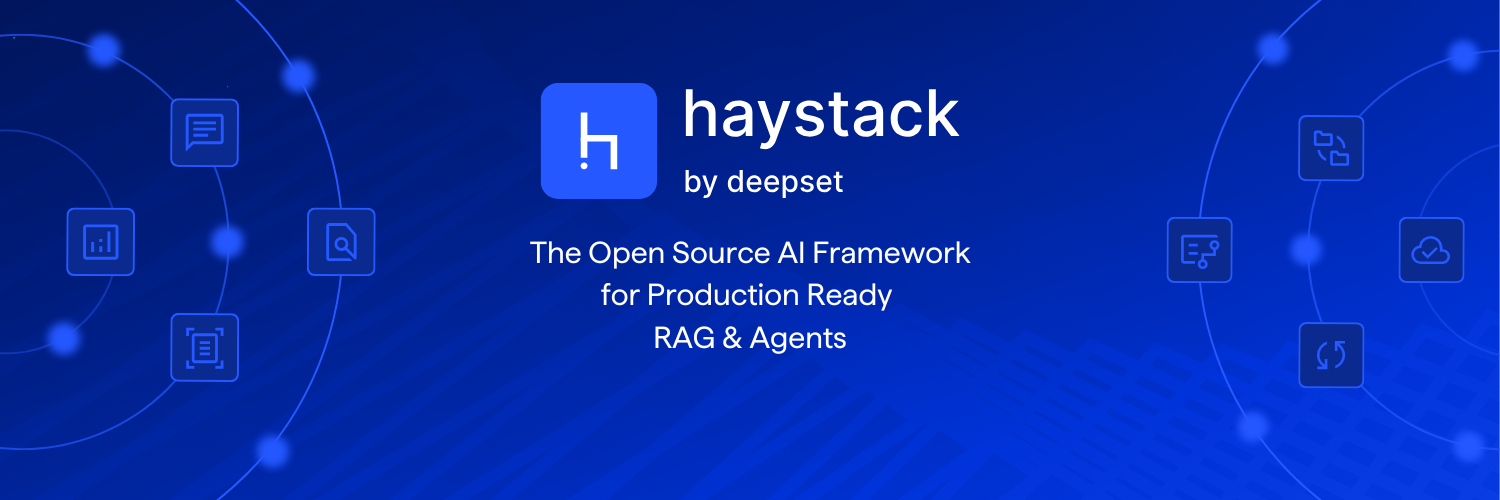
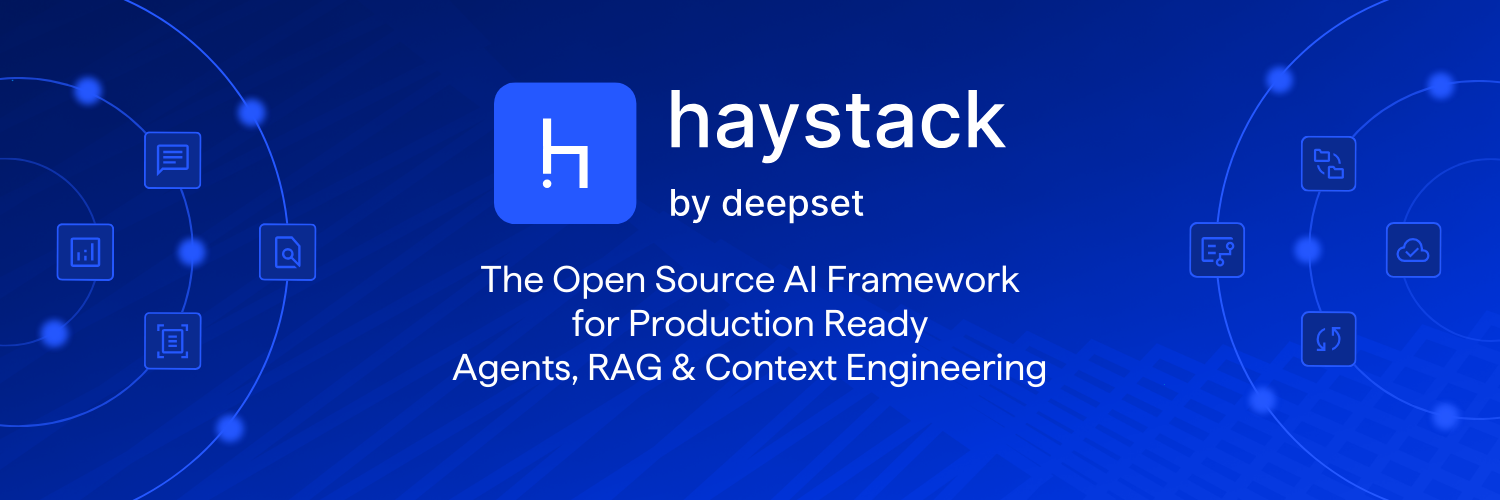
Update README.md (#10589)
* Update README.md

* New Haystack description
* Update Haystack Enterprise section
* Change some titles 
* Fix typos

* Address the PR comments & change the banner

diff --git a/README.md b/README.md
@@ -9,21 +9,20 @@
 | Meta    | [![Discord](https://img.shields.io/discord/993534733298450452?logo=discord)](https://discord.com/invite/xYvH6drSmA) [![Twitter Follow](https://img.shields.io/twitter/follow/haystack_ai)](https://twitter.com/haystack_ai)                                                                                                                                                                                                                                                                                                                                                                                                                                                                                                                    |
 </div>
 
-[Haystack](https://haystack.deepset.ai/) is an end-to-end LLM framework that allows you to build applications powered by
-LLMs, Transformer models, vector search and more. Whether you want to perform retrieval-augmented generation (RAG),
-document search, question answering or answer generation, Haystack can orchestrate state-of-the-art embedding models
-and LLMs into pipelines to build end-to-end NLP applications and solve your use case.
+[Haystack](https://haystack.deepset.ai/) is an open-source AI orchestration framework for building production-ready LLM applications in Python.
+
+Design modular pipelines and agent workflows with explicit control over retrieval, routing, memory, and generation. Build scalable RAG systems, multimodal applications, semantic search, question answering, and autonomous agents, all in a transparent architecture that lets you experiment, customize deeply, and deploy with confidence.
 
 ## Table of Contents
 
 - [Installation](#installation)
 - [Documentation](#documentation)
-- [Features and Use Cases](#features)
-- [Haystack Enterprise Starter](#haystack-enterprise-starter-best-practices-and-expert-support)
+- [Features](#features)
+- [Haystack Enterprise: Support & Platform](#haystack-enterprise-support--platform)
 - [Telemetry](#telemetry)
 - [🖖 Community](#-community)
 - [Contributing to Haystack](#contributing-to-haystack)
-- [Who Uses Haystack](#who-uses-haystack)
+- [Organizations using Haystack](#organizations-using-haystack)
 
 
 ## Installation
@@ -39,7 +38,7 @@ Install from the `main` branch to try the newest features:
 pip install git+https://github.com/deepset-ai/haystack.git@main
 ```
 
-Haystack supports multiple installation methods including Docker images. For a comprehensive guide please refer
+Haystack supports multiple installation methods, including Docker images. For a comprehensive guide, please refer
 to the [documentation](https://docs.haystack.deepset.ai/docs/installation).
 
 ## Documentation
@@ -50,37 +49,35 @@ in a matter of minutes. Keep learning with the [tutorials](https://haystack.deep
 use cases, or just to get some inspiration, you can browse our Haystack recipes in the
 [Cookbook](https://haystack.deepset.ai/cookbook).
 
-At any given point, hit the [documentation](https://docs.haystack.deepset.ai/docs/intro) to learn more about Haystack, what can it do for you and the technology behind.
+At any given point, hit the [documentation](https://docs.haystack.deepset.ai/docs/intro) to learn more about Haystack, what it can do for you, and the technology behind.
 
 ## Features
 
-- **Technology agnostic:** Allow users the flexibility to decide what vendor or technology they want and make it easy to switch out any component for another. Haystack allows you to use and compare models available from OpenAI, Cohere and Hugging Face, as well as your own local models or models hosted on Azure, Bedrock and SageMaker.
-- **Explicit:** Make it transparent how different moving parts can “talk” to each other so it's easier to fit your tech stack and use case.
-- **Flexible:** Haystack provides all tooling in one place: database access, file conversion, cleaning, splitting, training, eval, inference, and more. And whenever custom behavior is desirable, it's easy to create custom components.
-- **Extensible:** Provide a uniform and easy way for the community and third parties to build their own components and foster an open ecosystem around Haystack.
+**Built for context engineering**  
+Design flexible systems with explicit control over how information is retrieved, ranked, filtered, combined, structured, and routed before it reaches the model. Define pipelines and agent workflows where retrieval, memory, tools, and generation are transparent and traceable.
 
-Some examples of what you can do with Haystack:
+**Model- and vendor-agnostic**  
+Integrate with OpenAI, Mistral, Anthropic, Cohere, Hugging Face, Azure OpenAI, AWS Bedrock, local models, and many others. Swap models or infrastructure components without rewriting your system.
 
--   Build **retrieval augmented generation (RAG)** by making use of one of the available vector databases and customizing your LLM interaction, the sky is the limit 🚀
--   Perform Question Answering **in natural language** to find granular answers in your documents.
--   Perform **semantic search** and retrieve documents according to meaning.
--   Build applications that can make complex decisions making to answer complex queries: such as systems that can resolve complex customer queries, do knowledge search on many disconnected resources and so on.
--   Scale to millions of docs using retrievers and production-scale components.
--   Use **off-the-shelf models** or **fine-tune** them to your data.
--   Use **user feedback** to evaluate, benchmark, and continuously improve your models.
+**Modular and customizable**  
+Use built-in components for retrieval, indexing, tool calling, memory, and evaluation, or create your own. Add loops, branches, and conditional logic to precisely control how context moves through your pipelines and agent workflows.
+
+**Extensible ecosystem**  
+Build and share custom components through a consistent interface that makes it easy for the community and third parties to extend Haystack and contribute to an open ecosystem.
 
 > [!TIP]
->
-> Would you like to deploy and serve Haystack pipelines as REST APIs yourself? [Hayhooks](https://github.com/deepset-ai/hayhooks) provides a simple way to wrap your pipelines with custom logic and expose them via HTTP endpoints, including OpenAI-compatible chat completion endpoints and compatibility with fully-featured chat interfaces like [open-webui](https://openwebui.com/).
+> 
+> Would you like to deploy and serve Haystack pipelines as **REST APIs** or **MCP servers**? [Hayhooks](https://github.com/deepset-ai/hayhooks) provides a simple way for you to wrap pipelines and agents with custom logic and expose them through HTTP endpoints or MCP. It also supports OpenAI-compatible chat completion endpoints and works with chat UIs like [open-webui](https://openwebui.com/).
 
-## Haystack Enterprise Starter: Best Practices and Expert Support
+## Haystack Enterprise: Support & Platform
 
-Get expert support from the Haystack team, build faster with enterprise-grade templates, and scale securely with deployment guides for cloud and on-prem environments - all with **Haystack Enterprise Starter**. Read more about it the [announcement post](https://haystack.deepset.ai/blog/announcing-haystack-enterprise).
+Get expert support from the Haystack team, build faster with enterprise-grade templates, and scale securely with deployment guides for cloud and on-prem environments with **Haystack Enterprise Starter**. Read more about it in the [announcement post](https://haystack.deepset.ai/blog/announcing-haystack-enterprise).
 
-👉 [Get Haystack Enterprise Starter](https://www.deepset.ai/products-and-services/haystack-enterprise?utm_source=github.com&utm_medium=referral&utm_campaign=haystack_enterprise)
+👉 [Get Haystack Enterprise Starter](https://www.deepset.ai/products-and-services/haystack-enterprise-starter?utm_source=github.com&utm_medium=referral&utm_campaign=haystack_enterprise)
 
->
-> Are you looking for a managed solution that benefits from Haystack? [Haystack Enterprise Platform](https://www.deepset.ai/products-and-services/deepset-ai-platform?utm_campaign=developer-relations&utm_source=haystack&utm_medium=readme) is a fully managed, end-to-end platform to integrate LLMs with your data, which uses Haystack for the LLM pipelines architecture.
+Need a managed production setup for Haystack? The **Haystack Enterprise Platform** helps you build, test, deploy and operate Haystack pipelines with built-in observability, collaboration, governance, and access controls. It’s available as a managed cloud service or as a self-hosted solution.
+
+👉 Learn more about [Haystack Enterprise Platform](https://www.deepset.ai/products-and-services/haystack-enterprise-platform?utm_campaign=developer-relations&utm_source=haystack&utm_medium=readme) or [try it free](https://www.deepset.ai/haystack-enterprise-platform-trial?utm_campaign=developer-relations&utm_source=haystack&utm_medium=readme)
 
 ## Telemetry
 
@@ -90,7 +87,7 @@ Read more about telemetry in Haystack or how you can opt out in [Haystack docs](
 
 ## 🖖 Community
 
-If you have a feature request or a bug report, feel free to open an [issue in Github](https://github.com/deepset-ai/haystack/issues). We regularly check these and you can expect a quick response. If you'd like to discuss a topic, or get more general advice on how to make Haystack work for your project, you can start a thread in [Github Discussions](https://github.com/deepset-ai/haystack/discussions) or our [Discord channel](https://discord.com/invite/VBpFzsgRVF). We also check [𝕏 (Twitter)](https://twitter.com/haystack_ai) and [Stack Overflow](https://stackoverflow.com/questions/tagged/haystack).
+If you have a feature request or a bug report, feel free to open an [issue in GitHub](https://github.com/deepset-ai/haystack/issues). We regularly check these, so you can expect a quick response. If you'd like to discuss a topic or get more general advice on how to make Haystack work for your project, you can start a thread in [Github Discussions](https://github.com/deepset-ai/haystack/discussions) or our [Discord channel](https://discord.com/invite/VBpFzsgRVF). We also check [𝕏 (Twitter)](https://twitter.com/haystack_ai) and [Stack Overflow](https://stackoverflow.com/questions/tagged/haystack).
 
 ## Contributing to Haystack
 
@@ -104,14 +101,14 @@ There are several ways you can contribute to Haystack:
 > [!TIP]
 >👉 **[Check out the full list of issues that are open to contributions](https://github.com/orgs/deepset-ai/projects/14)**
 
-## Who Uses Haystack
+## Organizations using Haystack
 
-Here's a list of projects and companies using Haystack. Are you also using Haystack? Open a PR or [tell us your story](https://forms.gle/Mm3G1aEST3GAH2rn8).
+Haystack is used by thousands of teams building production AI systems across industries, including:
 
-- Tech & AI Innovators: [Apple](https://www.apple.com/), [Meta](https://www.meta.com/about), [Databricks](https://www.databricks.com/), [NVIDIA](https://developer.nvidia.com/blog/reducing-development-time-for-intelligent-virtual-assistants-in-contact-centers/), [PostHog](https://github.com/PostHog/max-ai#readme)
-- Public Sector: [German Federal Ministry of Research, Technology, and Space (BMFTR)](https://www.deepset.ai/case-studies/german-federal-ministry-research-technology-space-bmftr), [PD, Baden-Württemberg State](https://www.pd-g.de/)
-- Enterprise & Telecom: [Alcatel-Lucent](https://www.al-enterprise.com/), [Intel](https://github.com/intel/open-domain-question-and-answer#readme), [NOS Portugal](https://www.nos.pt/en/welcome), [TELUS Agriculture & Consumer Goods](https://www.telus.com/agcg/en)
-- Aerospace & Hardware: [Airbus](https://www.deepset.ai/case-studies/airbus), [Infineon](https://www.infineon.com/), [LEGO](https://github.com/larsbaunwall/bricky#readme)
-- Media & Entertainment: [Netflix](https://netflix.com), [Comcast](https://arxiv.org/html/2405.00801v2), [Zeit Online](https://www.deepset.ai/case-studies/zeit-online), [Rakuten](https://www.rakuten.com/)
-- Legal & Publishing: [Manz](https://www.deepset.ai/case-studies/manz), [Oxford University Press](https://corp.oup.com/)
-- Startups & Research: [YPulse](https://www.deepset.ai/case-studies/ypulse), [BetterUp](https://www.betterup.com/), [Intel Labs](https://github.com/IntelLabs/fastRAG#readme)
+- **Technology & AI Infrastructure**: [Apple](https://www.apple.com/), [Meta](https://www.meta.com/about), [Databricks](https://www.databricks.com/), [NVIDIA](https://developer.nvidia.com/blog/reducing-development-time-for-intelligent-virtual-assistants-in-contact-centers/), [Intel](https://github.com/intel/open-domain-question-and-answer#readme)
+- **Public Sector AI Initiatives**: [European Commission](https://commission.europa.eu/index_en), [German Federal Ministry of Research, Technology, and Space (BMFTR)](https://www.deepset.ai/case-studies/german-federal-ministry-research-technology-space-bmftr), [PD, Baden-Württemberg State](https://www.pd-g.de/)
+- **Enterprise & Industrial AI Applications**: [Airbus](https://www.deepset.ai/case-studies/airbus), [Lufthansa Industry Solutions](https://haystack.deepset.ai/blog/lufthansa-user-story), [Infineon](https://www.infineon.com/), [LEGO](https://github.com/larsbaunwall/bricky#readme), [Comcast](https://arxiv.org/html/2405.00801v2), [Accenture](https://www.accenture.com/), [TELUS Agriculture & Consumer Goods](https://www.telus.com/agcg/en)
+- **Knowledge & Content Platforms**: [Netflix](https://netflix.com), [ZEIT Online](https://www.deepset.ai/case-studies/zeit-online), [Rakuten](https://www.rakuten.com/), [Oxford University Press](https://corp.oup.com/), [Manz](https://www.deepset.ai/case-studies/manz), [YPulse](https://www.deepset.ai/case-studies/ypulse)
+
+
+Are you also using Haystack? Open a PR or [tell us your story](https://forms.gle/Mm3G1aEST3GAH2rn8)
